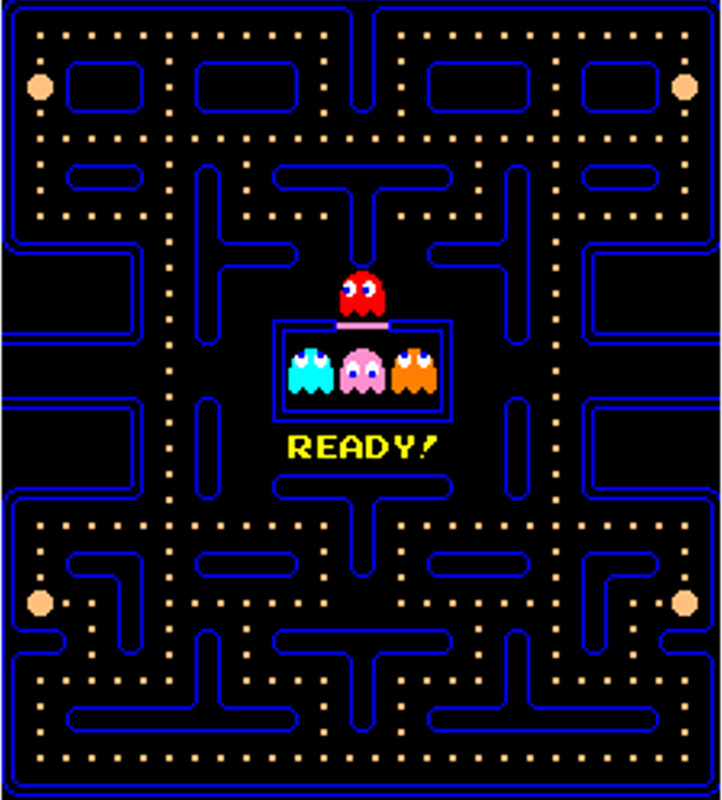
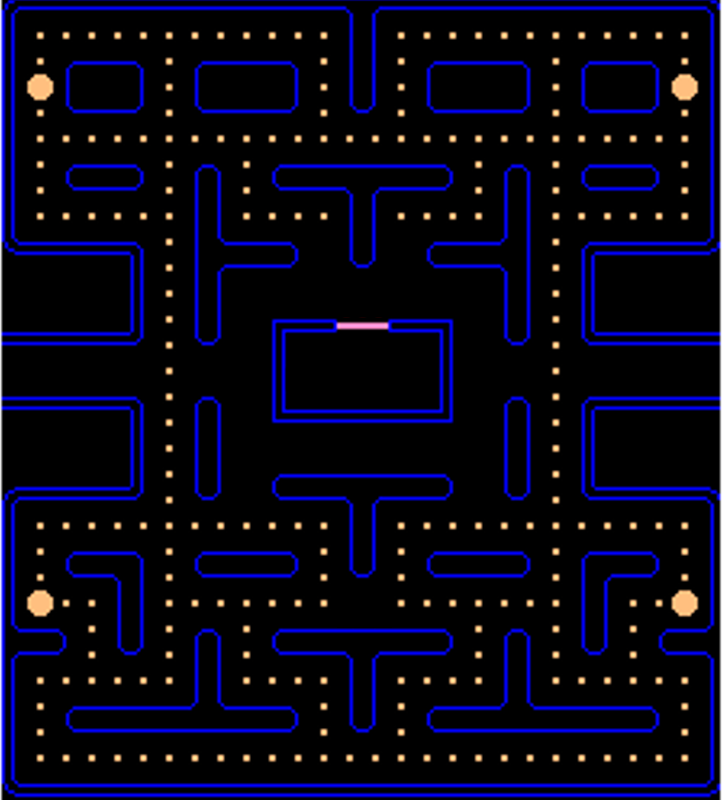
More work on the animation demo

Changed region(s): [[0.3961, 0.4375, 0.6094, 0.5], [0.3961, 0.5312, 0.6094, 0.5938], [0.4571, 0.3125, 0.5485, 0.4062]]

diff --git a/animdemo/index.html b/animdemo/index.html
@@ -1,35 +1,60 @@
 <!DOCTYPE html>
 <html>
   <head>
+  <style type="text/css" rel="stylesheet">
+  #pacman.up {
+    transform: rotate(270deg);
+  }
+  #pacman.down {
+    transform: rotate(90deg);
+  }
+  #pacman.left {
+    transform: rotate(180deg);
+  }
+  #pacman.right {
+    transform: rotate(0deg);
+  }
+
+  </style>
+  <script type="text/javascript" src="jquery-2.1.4.js"></script>
   <script type="text/javascript">
     /* ====================== Globals =================== */
-    $ = function(selector) {
-      result = document.querySelectorAll(selector);
-      if (result.length)
-        return result[0];
-      else
-        return undefined;
-    }
-    $$ = function(selector) {
-      return document.querySelectorAll(selector);
-    }
     var bounds = [ 40, 38, 685, 757 ];
     var speed = 2;
-    var coords = {
-      pacman: new Character( 361, 604),
-      inky  : new Character(   0,   0),
-      blinky: new Character(   0,   0),
-      pinky : new Character(   0,   0),
-      clyde : new Character(   0,   0)
-    }
 
     /* ====================== Character ================= */
-    function Character(x, y) {
+    function Character(x, y, ele) {
+      this.element = $(ele);
       this.x = x;
       this.y = y;
       this.dx = 0;
       this.dy = 0;
+      this.offsetx = this.element.width()  / 2;
+      this.offsety = this.element.height() / 2;
       return this;
+    }
+
+    Character.prototype.move = function(x, y) {
+      this.x += x;
+      this.y += y;
+      this.dx = x;
+      this.dy = y;
+    }
+
+    Character.prototype.update = function() {
+      this.element.removeClass();
+      if (this.dx < 0)
+        this.element.addClass('left');
+      if (this.dx > 0)
+        this.element.addClass('right');
+      if (this.dy < 0)
+        this.element.addClass('up');
+      if (this.dy > 0)
+        this.element.addClass('down');
+      this.element.css({ 
+        'left': this.x - this.offsetx  / 2,
+        'top' : this.y - this.offsety / 2,
+      });
     }
 
     /* ====================== Input ===================== */
@@ -53,20 +78,21 @@
     Input.prototype.right = 39;
 
     Input.prototype.filter = function(coords) {
-      var returnvalue = {}
-      returnvalue.up    = this.keys.up;
-      returnvalue.down  = this.keys.down;
-      returnvalue.left  = this.keys.left;
-      returnvalue.right = this.keys.right;
-      if (!((coords.x - 36) % 26)) {
-        returnvalue.up = false;
-        returnvalue.down = false;
-      }
-      if (!((coords.y - 34) % 26)) {
-        returnvalue.left = false;
-        returnvalue.right = false;
-      }
-      return returnvalue;
+      return this.keys; // temporary
+//      var returnvalue = {}
+//      returnvalue.up    = this.keys.up;
+//      returnvalue.down  = this.keys.down;
+//      returnvalue.left  = this.keys.left;
+//      returnvalue.right = this.keys.right;
+//      if (!((coords.x - 36) % 26)) {
+//        returnvalue.up = false;
+//        returnvalue.down = false;
+//      }
+//      if (!((coords.y - 34) % 26)) {
+//        returnvalue.left = false;
+//        returnvalue.right = false;
+//      }
+//      return returnvalue;
     }
 
     Input.prototype.pressed = function(pressed) {
@@ -94,52 +120,107 @@
     /* ================== Mainloop ====================== */
 
     function mainloop() {
-      var pacman = $("#pacman");
-      var keys = input.filter(coords.pacman);
+      var keys = input.filter(pacman);
+      var dx=0, dy=0;
       if (keys.up) {
-        coords.pacman.y -= speed;
-        coords.pacman.dy = -speed;
-        pacman.style.transform = "rotate(270deg)";
+        dy -= speed;
       } else if (keys.down) {
-        coords.pacman.y += speed;
-        coords.pacman.dy = speed;
-        pacman.style.transform = "rotate(90deg)";
+        dy += speed;
       } else {
-        coords.pacman.dy = 0;
-
         if (keys.left) {
-          coords.pacman.x -= speed;
-          coords.pacman.dx = -speed;
-          pacman.style.transform = "rotate(180deg)";
+          dx -= speed;
         } else if (keys.right) {
-          coords.pacman.x += speed;
-          coords.pacman.dx = speed;
-          pacman.style.transform = "rotate(0deg)";
-        } else {
-          coords.pacman.dx = 0;
-        }
+          dx += speed;
+        } else { }
       } 
+      if (dx || dy)
+        pacman.move(dx, dy);
 
-      if (coords.pacman.x < bounds[0]) coords.pacman.x = bounds[0];
-      if (coords.pacman.y < bounds[1]) coords.pacman.y = bounds[1];
-      if (coords.pacman.x > bounds[2]) coords.pacman.x = bounds[2];
-      if (coords.pacman.y > bounds[3]) coords.pacman.y = bounds[3];
+      // temporary code
+      if (pacman.x < bounds[0]) pacman.x = bounds[0];
+      if (pacman.y < bounds[1]) pacman.y = bounds[1];
+      if (pacman.x > bounds[2]) pacman.x = bounds[2];
+      if (pacman.y > bounds[3]) pacman.y = bounds[3];
 
-      pacman.style.left = (coords.pacman.x-22) + "px";
-      pacman.style.top  = (coords.pacman.y-22) + "px";
+      /* temporary ghost code */
+      if (blinky.dx > 0) {
+        if (blinky.x < 460)
+          blinky.move(1, 0);
+        else
+          blinky.move(-1, 0);
+      } else {
+        if (blinky.x > 240)
+          blinky.move(-1, 0);
+        else
+          blinky.move(1, 0);
+      }
+
+      var ghosts = [inky, pinky, clyde];
+      for (i in ghosts) {
+        if (ghosts[i].dy > 0) {
+          if (ghosts[i].y < 376)
+            ghosts[i].move(0, 1);
+          else
+            ghosts[i].move(0, -1);
+        } else {
+          if (ghosts[i].y > 344)
+            ghosts[i].move(0, -1);
+          else
+            ghosts[i].move(0, 1);
+        }
+      }
+      
+      if (blinky.dx > 0) {
+        if (blinky.x < 460)
+          blinky.move(2, 0);
+        else
+          blinky.move(-2, 0);
+      } else {
+        if (blinky.x > 240)
+          blinky.move(-2, 0);
+        else
+          blinky.move(2, 0);
+      }
+
+      /* end temporary ghost code */
+
+      update();
+
+    }
+
+    function update() {
+      pacman.update();
+      inky.update();
+      blinky.update();
+      pinky.update();
+      clyde.update();
+    }
+
+    function genPellets() {
+      var pellet = $('<img src="pellet.png">');
     }
 
     window.onload = function() {
       input = new Input();
+      pacman = new Character( 352, 594, '#pacman', true);
+      inky   = new Character( 300, 360, '#inky');
+      blinky = new Character( 352, 282, '#blinky');
+      pinky  = new Character( 352, 360, '#pinky');
+      pinky.dy = 1; // temporary
+      clyde  = new Character( 403, 360, '#clyde');
       window.addEventListener('keydown', function(event) { input.pressed(event.keyCode); }, false);
       window.addEventListener('keyup', function(event) { input.released(event.keyCode); }, false);
       setInterval(mainloop, 10);
     }
   </script>
   </head>
-  <body>
+  <body style="background-color: black">
   <div id="stage" style="height: 800px; width: 722px; background: no-repeat url('background.png'); margin: auto; position: relative;">
     <img id="pacman" src="pacman.gif" style="position: absolute; left:0px; top:0px;">
+    <img id="inky"   src="inky.png" style="position: absolute; left:0px; top:0px;">
+    <img id="blinky" src="blinky.png" style="position: absolute; left:0px; top:0px;">
+    <img id="pinky"  src="pinky.png" style="position: absolute; left:0px; top:0px;">
+    <img id="clyde"  src="clyde.png" style="position: absolute; left:0px; top:0px;">
   </div>
   </body>
 </html>
